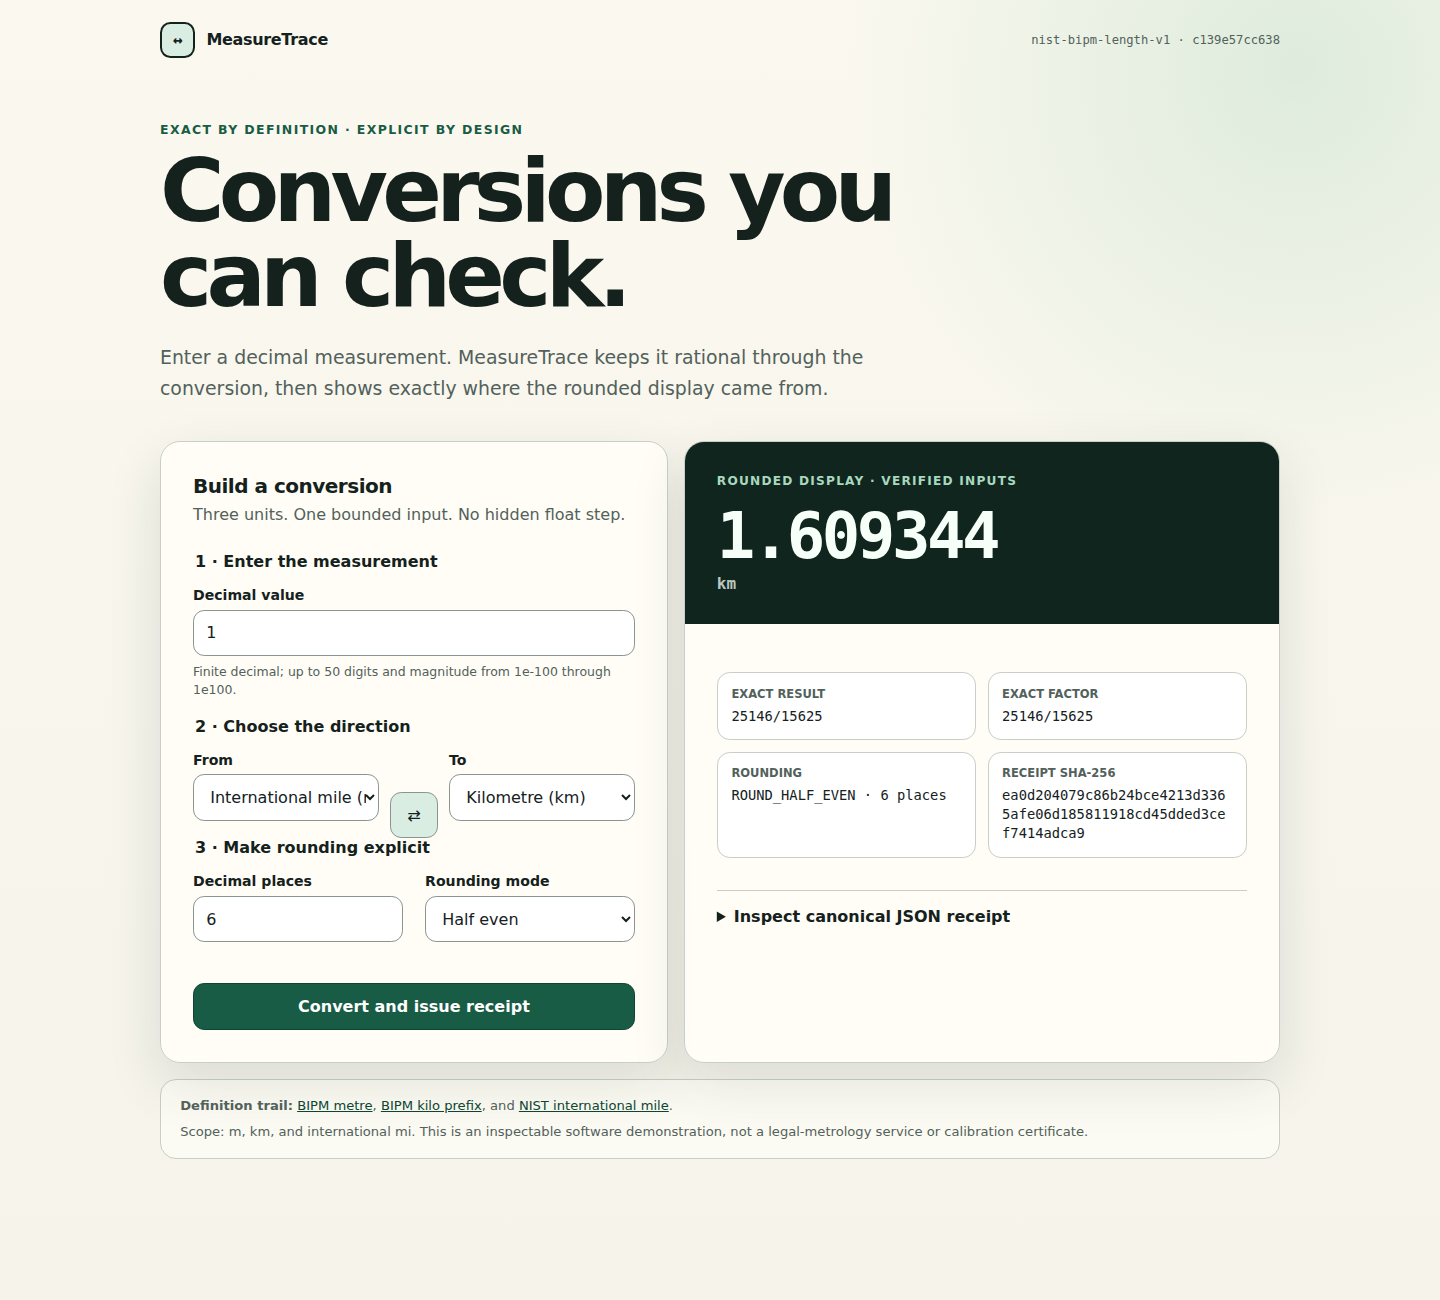
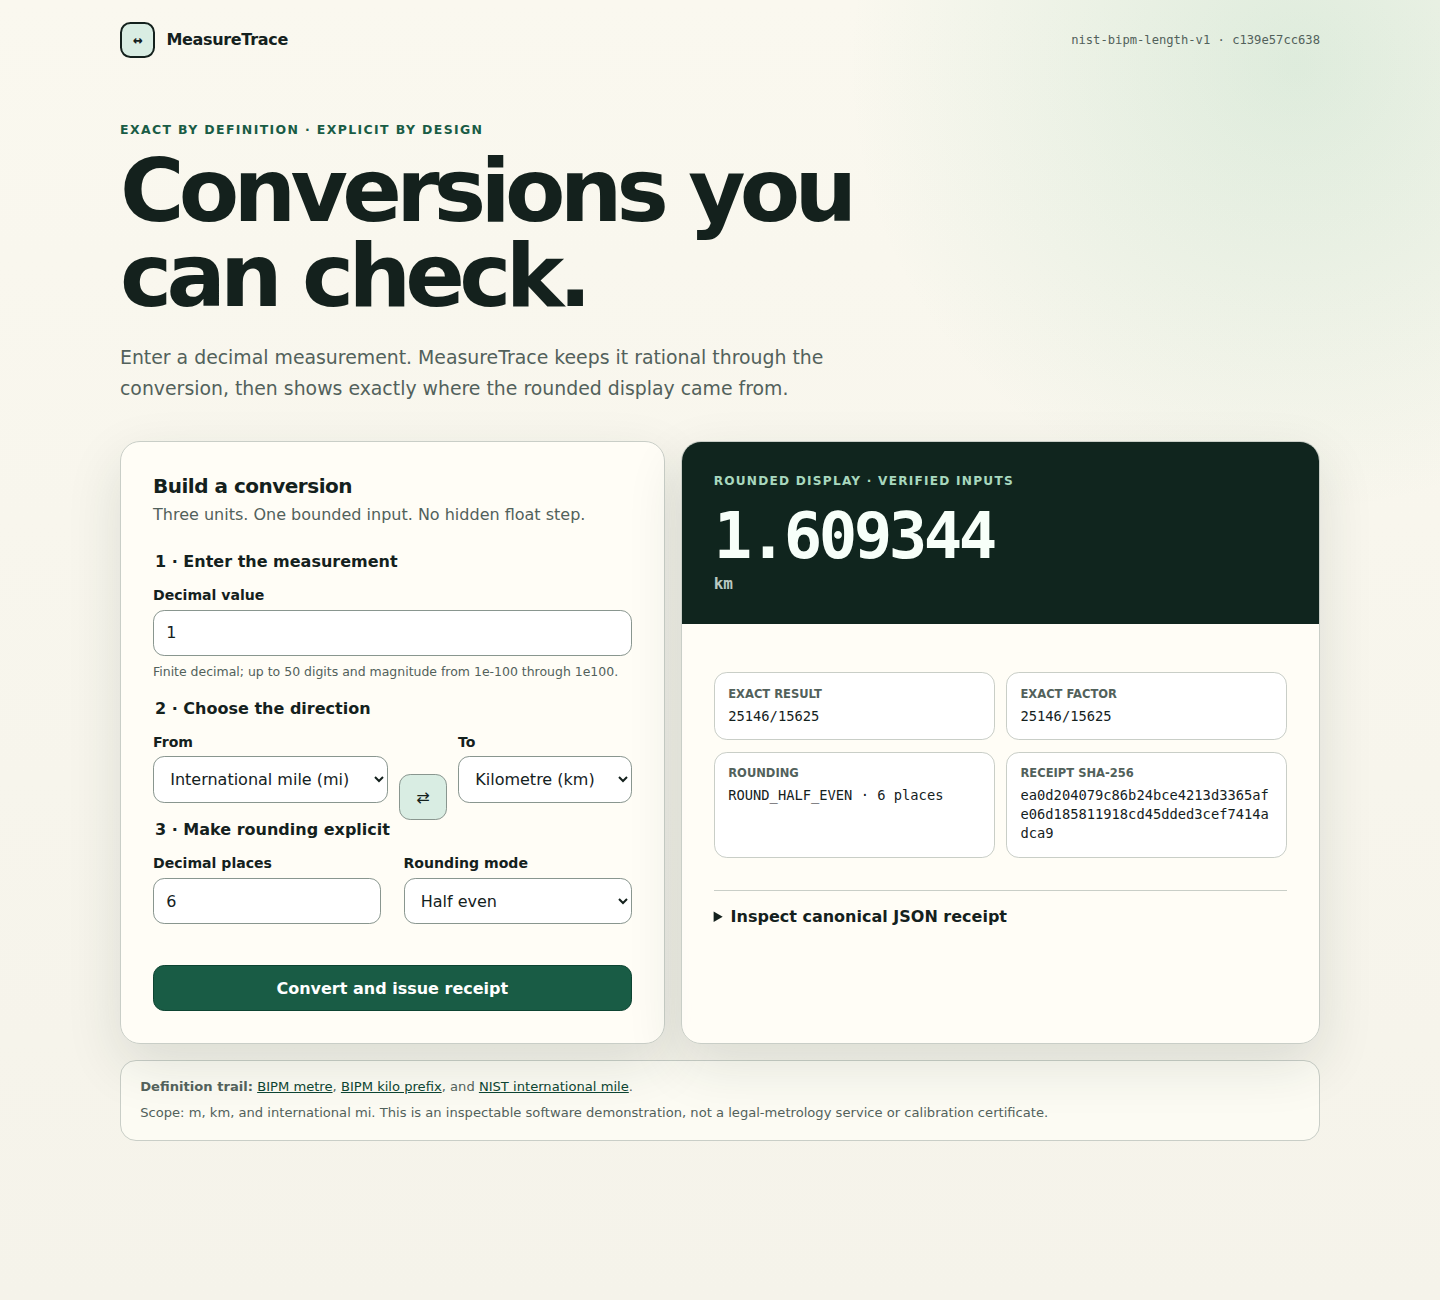
Adopt corrected responsive portfolio evidence

diff --git a/evidence/portfolio/README.md b/evidence/portfolio/README.md
@@ -1,12 +1,5 @@
 # Reviewed portfolio evidence
 
-> **Status: rejected for final publication.** Independent original-resolution
-> review found the desktop source-unit label clipped beneath the native select
-> affordance. The hashes below still describe these bytes, but this set is not
-> the current accepted portfolio evidence and must be replaced through a new
-> upload-first audit cycle.
-
-
 This directory contains the exact bytes reviewed from a CI artifact before
 adoption. Do not replace an individual file in place: generate a new staged
 artifact, repeat the audit, and adopt the complete verified set in a later
@@ -14,11 +7,11 @@ commit.
 
 ## Source and integrity
 
-- Source commit: `e9c2d941b7a7e931329655d6ff7621801230f639`
-- Workflow run: [31288049557](https://github.com/omar07ibrahim/units1/actions/runs/31288049557)
-- Artifact ID: `9030482338`
[2 lines of base64/hex data omitted]
+- Source commit: `b9f4e5a92723804a59c61fec813e63136a4b765a`
+- Workflow run: [31289140743](https://github.com/omar07ibrahim/units1/actions/runs/31289140743)
+- Artifact ID: `9030832975`
[3 lines of base64/hex data omitted]
 - Runtime: Python `3.12.11`; Google Chrome `150.0.7871.128`
[1 lines of base64/hex data omitted]
@@ -29,21 +22,26 @@ dimensions, byte counts, and SHA-256 for every evidence file.
 
 ## Review outcome
 
-A separate stream-only audit rejected unsafe or duplicate paths, unmanifested
-files, duplicate JSON keys, digest or dimension mismatches, malformed PNG,
-GIF, or SVG structures, receipt inconsistencies, drift-data changes, and
-secret-shaped text. It independently bound the generator bytes to the source
-commit and recomputed the receipt and exact `1 mi = 1.609344 km` result.
+A separate stream-only audit checked for unsafe or duplicate paths,
+unmanifested files, duplicate JSON keys, digest or dimension mismatches,
+malformed PNG, GIF, or SVG structures, receipt inconsistencies, drift-data
+changes, and secret-shaped text. It independently bound the generator bytes
+to the source commit and recomputed the receipt and exact
+`1 mi = 1.609344 km` result.
 
 The 390, 768, and 1440 CSS-pixel captures were inspected at original
 resolution. Each shows the complete page without clipping, overlap, blank
-autofocus scrolling, misleading state, or missing responsive hierarchy. The
-CLI PNG, animated result tour, diagram XML, and drift CSV/chart were also
-checked against their source outputs.
+autofocus scrolling, misleading state, or missing responsive hierarchy. On
+desktop, the full “International mile (mi)” selected value remains clear of
+the native dropdown affordance and `ROUND_HALF_EVEN · 6 places` remains on one
+line. The CLI PNG, animated result tour, diagram XML, and drift CSV/chart were
+also checked against their source outputs.
 
-Two earlier staged artifacts were intentionally not adopted after visual
-review found blank/scroll-shifted captures and then clipped footers. Their
-bytes are not present here.
+Earlier staged artifacts with blank or scroll-shifted captures and clipped
+footers were never adopted. The preceding adopted set from artifact
+`9030482338` was later rejected after desktop select-label clipping was found;
+replacement candidates `9030758005` and `9030795223` were rejected after
+result-card wrapping appeared. None of those rejected bytes is present here.
 
 Rights status follows [the repository provenance notes](../../docs/provenance.md);
 the evidence record does not add a license or authorship claim.

diff --git a/docs/evidence.md b/docs/evidence.md
@@ -30,11 +30,27 @@ Before adoption, a reviewer must:
 
 Only then may a later commit place the reviewed bytes under `evidence/portfolio/` and update README links. If Chrome is unavailable or any check fails, CI fails and no screenshot claim is published.
 
-## Rejected evidence set pending replacement
+## Adopted evidence set
 
-The set currently under evidence/portfolio came from workflow run 31288049557
-and remains byte-integral, but it is rejected for final publication.
-Original-resolution review found that ui-1440x1300.png clipped the selected
-“International mile (mi)” source label beneath the native dropdown affordance.
-A new source commit, CI artifact, independent audit, and later adoption are
-required before the portfolio claim is restored.
+The current `evidence/portfolio/` bytes came from workflow run
+[`31289140743`](https://github.com/omar07ibrahim/units1/actions/runs/31289140743)
+for source commit `b9f4e5a92723804a59c61fec813e63136a4b765a`. The streamed artifact
+ZIP SHA-256 is
[1 lines of base64/hex data omitted]
+its detached manifest SHA-256 is
[1 lines of base64/hex data omitted]
+
+A separate audit checked safe paths, duplicate names and JSON keys, every file
+size and digest, generator/source binding, PNG chunk CRCs and decoded pixels,
+GIF/SVG structure, receipt semantics, CLI output, drift values, and
+secret-shaped text. All three responsive captures were then inspected at
+original resolution. The desktop capture shows the complete selected
+“International mile (mi)” label without colliding with the native select
+affordance, and its rounding fact remains on one line. See the
+[adopted review record](../evidence/portfolio/README.md).
+
+The preceding set from artifact `9030482338` remained byte-integral but was
+rejected after original-resolution review exposed the desktop select-label
+clipping. Replacement candidates `9030758005` and `9030795223` were also
+rejected because their layout squeezed the result card and wrapped the
+rounding fact. None of those rejected bytes is present in the adopted set.

diff --git a/README.md b/README.md
@@ -73,14 +73,17 @@ The evidence job starts this exact WSGI application on loopback, captures real C
 
 Generated media is uploaded as a workflow artifact first. It is not committed or described as repository evidence until a later review verifies the manifest, image structure, visible output, and provenance. See [docs/evidence.md](docs/evidence.md).
 
-### Portfolio evidence status
+### Reviewed portfolio evidence
 
-The previously adopted set is retained only as rejected audit history while a
-replacement is generated. Original-resolution review found that the 1440 px
-capture clipped the selected “International mile (mi)” source label beneath
-the native select affordance. Its hashes remain valid, but it must not be
-treated as final portfolio evidence. The source fix and a new upload-first
-review cycle are in progress.
+[![MeasureTrace desktop conversion showing an exact mile-to-kilometre result and receipt](evidence/portfolio/ui-1440x1300.png)](evidence/portfolio/ui-1440x1300.png)
+
+The adopted bytes were generated by [CI run 31289140743](https://github.com/omar07ibrahim/units1/actions/runs/31289140743) for source commit [`b9f4e5a9`](https://github.com/omar07ibrahim/units1/commit/b9f4e5a92723804a59c61fec813e63136a4b765a), then checked through a separate stream-based audit and original-resolution visual review before this later commit added them.
+
+- Responsive UI: [390 px](evidence/portfolio/ui-390x2300.png), [768 px](evidence/portfolio/ui-768x1700.png), and [1440 px](evidence/portfolio/ui-1440x1300.png)
+- Executed behavior: [CLI transcript](evidence/portfolio/cli-transcript.png) and [animated result tour](evidence/portfolio/result-tour.gif)
+- Trace model: [architecture](evidence/portfolio/architecture.svg) and [conversion flow](evidence/portfolio/conversion-flow.svg)
+- Regression evidence: [legacy drift chart](evidence/portfolio/legacy-drift.svg) and [source CSV](evidence/portfolio/drift.csv)
+- Integrity and provenance: [manifest](evidence/portfolio/manifest.json) and [review record](evidence/portfolio/README.md)
 
 ## Legacy baseline
 
